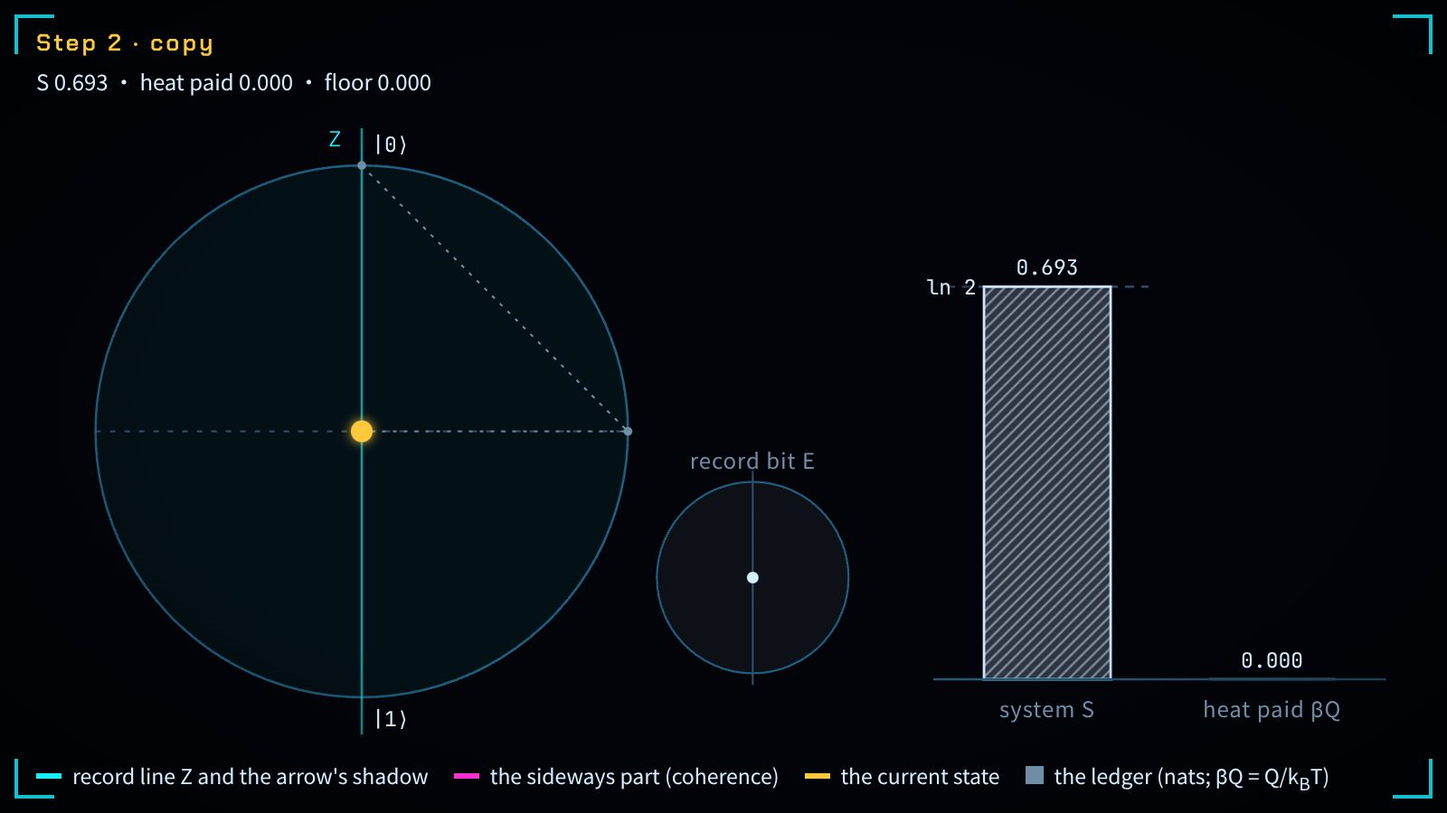
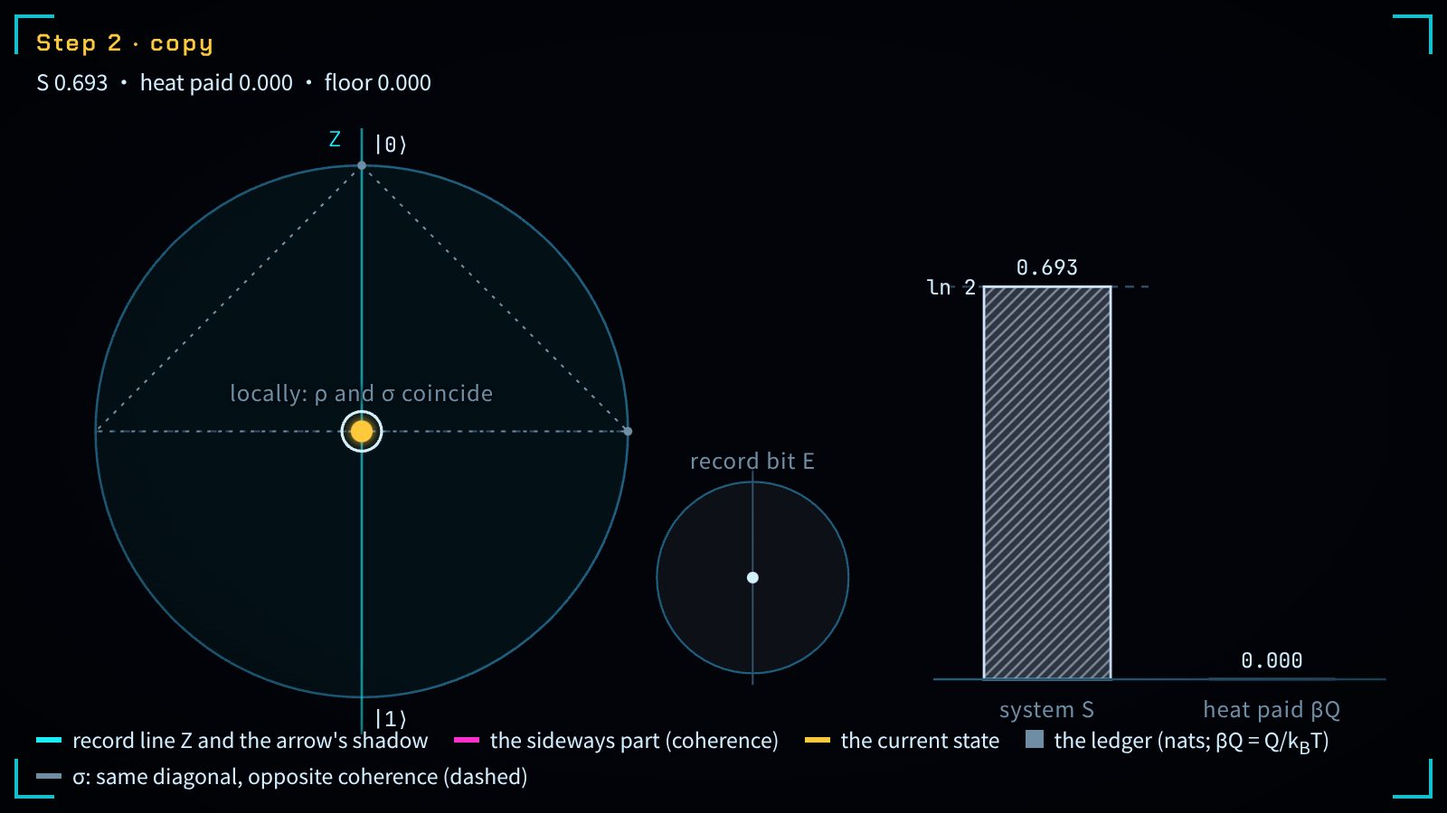
erasure-ledger: a two-state card for the data-processing inequality; the copy card carries the mirror state that coincides locally

Changed region(s): [[0.0312, 0.9022, 0.9062, 0.9644], [0.1562, 0.4667, 0.3438, 0.4978], [0.2188, 0.5289, 0.2812, 0.56]]

diff --git a/books/quantum-geometry/viz/erasure-ledger/main.js b/books/quantum-geometry/viz/erasure-ledger/main.js
@@ -70,13 +70,45 @@
   const blank = (J) => dist(J, kron(sysOf(J), BLANK)) < 1e-9;
   const gibbs = (p) => [[p, 0], [0, 1 - p]];
 
+  /* ---------- a second scene: two states sent through the same processes (data processing) ---------- */
+  /** D(ρ ‖ σ) for two qubits given by their Bloch arrows in the x–z plane; +∞ when ρ leaves the support of a pure σ. */
+  function dPair(r, s) {
+    const pureS = 1 - Math.hypot(s[0], s[1]) < 1e-12, same = Math.hypot(r[0] - s[0], r[1] - s[1]) < 1e-12;
+    if (pureS && !same) return Infinity;
+    return Math.max(0, relEnt(qubit(r[0], r[1]), qubit(s[0], s[1])));
+  }
+  const DPI = { lam: 0.5, ang: 0.7, ops: ['dep', 'rot', 'pinch', 'dep', 'dep'] };
+  const turnXZ = ([x, z], a) => [x * Math.cos(a) + z * Math.sin(a), -x * Math.sin(a) + z * Math.cos(a)];
+  function dpiStep([x, z], op) { return op === 'dep' ? [DPI.lam * x, DPI.lam * z] : op === 'rot' ? turnXZ([x, z], DPI.ang) : [0, z]; }
+  let dpiHist = [];
+  function dpiBuild() {
+    let r = [0, 1], sg = [1, 0];
+    dpiHist = [{ r, s: sg, D: dPair(r, sg), op: null }];
+    for (const op of DPI.ops) { r = dpiStep(r, op); sg = dpiStep(sg, op); dpiHist.push({ r, s: sg, D: dPair(r, sg), op }); }
+  }
+  dpiBuild();
+  function dpiAt(t) {
+    const n = DPI.ops.length, k = Math.max(0, Math.min(n, Math.floor(t + 1e-9))), f = k >= n ? 0 : Math.min(1, Math.max(0, t - k));
+    const a = dpiHist[k];
+    if (f < 1e-9) return { k, f: 0, r: a.r, s: a.s };
+    const b = dpiHist[k + 1], e = TRV.smooth(f);
+    const mid = (u, v) => (b.op === 'rot' ? turnXZ(u, DPI.ang * e) : [lerp(u[0], v[0], e), lerp(u[1], v[1], e)]);
+    return { k, f, r: mid(a.r, b.r), s: mid(a.s, b.s) };
+  }
+  const DPINAME = { dep: () => L(`去极化 λ = ${DPI.lam}`, `depolarize, λ = ${DPI.lam}`), rot: () => L(`绕 y 转 ${DPI.ang} 弧度`, `turn ${DPI.ang} rad about y`), pinch: () => L('Z 基捏合', 'pinch in Z') };
+  const fmtD = (d) => (d === Infinity ? '∞' : fix(d, 4));
+
   /* ---------- the ledger: a list of operations and the states after each ---------- */
-  const S = { alpha: 90 * DEG, p: 0.9, ops: [] };
+  const S = { alpha: 90 * DEG, p: 0.9, ops: [], mode: 'ledger' };
   let hist = [];
   const start = () => ({ J: kron(qubit(0, 1), BLANK), heat: 0, floor: 0, extra: 0, step: null, seg: { base: 0, kind: 'start', blocks: [] } });
   /** Fill in what every entry shows, each number from its own route. */
+  /** The mirror of the system: σ has the same diagonal and the opposite coherence (Z on the system). Z commutes with the
+      controlled-NOT, so mirroring every joint state of the ledger gives the ledger σ would have through the copy. */
+  const ZS = [[1, 0, 0, 0], [0, 1, 0, 0], [0, 0, -1, 0], [0, 0, 0, -1]];
   function describe(h) {
     const rs = sysOf(h.J), re = recOf(h.J);
+    h.Jm = conj(ZS, h.J); h.blochM = blochOf(sysOf(h.Jm));
     h.sys = rs; h.bloch = blochOf(rs); h.S = entropy(rs); h.Sglob = entropy(h.J); h.linked = !blank(h.J); h.rec = blochOf(re);
     return h;
   }
@@ -127,12 +159,13 @@
   function at(t) {
     const n = S.ops.length, k = Math.max(0, Math.min(n, Math.floor(t + 1e-9))), f = k >= n ? 0 : Math.min(1, Math.max(0, t - k));
     const a = hist[k];
-    if (f < 1e-9) return { k, f: 0, h: a, next: null, bloch: a.bloch, rec: a.rec, S: a.S, heat: a.heat, floor: a.floor, extra: a.extra };
+    if (f < 1e-9) return { k, f: 0, h: a, next: null, bloch: a.bloch, blochM: a.blochM, rec: a.rec, S: a.S, heat: a.heat, floor: a.floor, extra: a.extra };
     const b = hist[k + 1], e = TRV.smooth(f);
     let bloch;
     if (b.step.op === 'rot') { const c = Math.cos(b.step.alpha * e), s = Math.sin(b.step.alpha * e), [x, z] = a.bloch; bloch = [x * c + z * s, -x * s + z * c]; }
     else bloch = [lerp(a.bloch[0], b.bloch[0], e), lerp(a.bloch[1], b.bloch[1], e)];
-    return { k, f, h: a, next: b, bloch, rec: [lerp(a.rec[0], b.rec[0], e), lerp(a.rec[1], b.rec[1], e)],
+    const blochM = [-bloch[0], bloch[1]];
+    return { k, f, h: a, next: b, bloch, blochM, rec: [lerp(a.rec[0], b.rec[0], e), lerp(a.rec[1], b.rec[1], e)],
       S: lerp(a.S, b.S, e), heat: lerp(a.heat, b.heat, e), floor: lerp(a.floor, b.floor, e), extra: lerp(a.extra, b.extra, e), e };
   }
   const OPNAME = {
@@ -199,7 +232,58 @@
     sub.innerHTML = hudSubHtml(a, !(a.f > 0)); const other = sub.getBoundingClientRect().bottom - y0;
     sub.innerHTML = hudSubHtml(a, a.f > 0); return Math.max(other, sub.getBoundingClientRect().bottom - y0);
   }
+  function drawDpi() {
+    const st = stage, c = st.begin(), W = st.W, H = st.H, a = dpiAt(clock.t), labels = !TRV.thumbMode;
+    const cur = a.f > 0 ? a.k + 1 : a.k;
+    $('hudBig').textContent = cur ? L(`第 ${cur} 步 · ${DPINAME[DPI.ops[cur - 1]]()}`, `Step ${cur} · ${DPINAME[DPI.ops[cur - 1]]()}`) : L('起点 · ρ = |0⟩，σ = |+⟩', 'Start · ρ = |0⟩, σ = |+⟩');
+    const prev = a.k > 0 ? dpiHist[a.k - 1].D : null, here = dpiHist[a.k].D;
+    $('hudSub').textContent = a.f > 0 ? L(`D(ρ ‖ σ) 在这一步做完时重算`, 'D(ρ ‖ σ) is recomputed when this step is done')
+      : L(`D(ρ ‖ σ) = ${fmtD(here)}${prev == null ? '' : ` · 上一步 ${fmtD(prev)}`}`, `D(ρ ‖ σ) = ${fmtD(here)}${prev == null ? '' : ` · the step before ${fmtD(prev)}`}`);
+    const y0 = $('cv').getBoundingClientRect().top, hb = TRV.thumbMode ? 0 : $('hudSub').getBoundingClientRect().bottom - y0;
+    const Lo = layout(W, H, hb), { R, cx, cy } = Lo, X = (u) => cx + R * u, Y = (u) => cy - R * u;
+    c.fillStyle = TRV.alpha(P.cyan, 0.05); c.beginPath(); c.arc(cx, cy, R, 0, 2 * Math.PI); c.fill();
+    c.strokeStyle = P.lineHot; c.lineWidth = 1.3 * thick; c.stroke();
+    c.setLineDash([3, 5]); c.strokeStyle = P.faint; c.lineWidth = 1; c.beginPath(); c.moveTo(X(-1), cy); c.lineTo(X(1), cy); c.stroke(); c.setLineDash([]);
+    c.strokeStyle = P.cyan; c.globalAlpha = 0.6; c.lineWidth = 1.3 * thick; c.beginPath(); c.moveTo(cx, Y(1.14)); c.lineTo(cx, Y(-1.14)); c.stroke(); c.globalAlpha = 1;
+    // where both states have been
+    for (const key of ['r', 's']) {
+      c.setLineDash([2, 4]); c.strokeStyle = P.dim; c.lineWidth = 1 * thick; c.beginPath();
+      for (let i = 0; i <= a.k; i++) { const b = dpiHist[i][key]; if (i) c.lineTo(X(b[0]), Y(b[1])); else c.moveTo(X(b[0]), Y(b[1])); }
+      c.lineTo(X(a[key][0]), Y(a[key][1])); c.stroke(); c.setLineDash([]);
+      for (let i = 0; i <= a.k; i++) { const b = dpiHist[i][key]; c.fillStyle = P.dim; c.beginPath(); c.arc(X(b[0]), Y(b[1]), 2.4 * thick, 0, 2 * Math.PI); c.fill(); }
+    }
+    const [sx, sz] = a.s, [rx, rz] = a.r;
+    if (Math.hypot(sx, sz) > 2e-3) { c.save(); c.setLineDash([5 * thick, 4 * thick]); arrow(c, cx, cy, X(sx), Y(sz), P.ink, 2 * thick, 10 * thick); c.restore(); }
+    c.strokeStyle = P.ink; c.lineWidth = 1.8 * thick; c.beginPath(); c.arc(X(sx), Y(sz), 5.5 * thick, 0, 2 * Math.PI); c.stroke();
+    c.save(); c.shadowColor = P.amber; c.shadowBlur = 12;
+    if (Math.hypot(rx, rz) > 2e-3) arrow(c, cx, cy, X(rx), Y(rz), P.amber, 2.4 * thick, 12 * thick);
+    c.fillStyle = P.amber; c.beginPath(); c.arc(X(rx), Y(rz), 4.5 * thick, 0, 2 * Math.PI); c.fill(); c.restore();
+    if (labels) {
+      st.tag('k0', [cx + 16, Y(1.08)], '|0⟩', 'num', { screen: true });
+      st.tag('z', [cx - 14, Y(1.1)], 'Z', 'cy', { screen: true });
+      if (Math.hypot(rx, rz - 1) > 0.3) st.tag('rh', [X(rx) + 14, Y(rz) - 12], 'ρ', 'raw c-am', { screen: true });
+      st.tag('sg', [X(sx) + 14, Y(sz) + 14], 'σ', 'raw', { screen: true });
+    }
+    // the column of D after every step: none ever rises above the one before
+    const { yTop, yBot } = Lo.led, tall = H > W * 1.1, xa = tall ? 24 : Lo.env.cx - Lo.env.r, xb = W - Math.max(16, W * 0.04), n = DPI.ops.length;
+    const hi = 0.32, V = (d) => yBot - Math.min(d, hi * 1.08) / hi * (yBot - yTop - (tall ? 30 : 0)) * 0.86, slot = (xb - xa) / (n + 1), bw = Math.min(40, slot * 0.6);
+    c.strokeStyle = P.lineHot; c.lineWidth = 1.2; c.beginPath(); c.moveTo(xa, yBot); c.lineTo(xb, yBot); c.stroke();
+    for (let i = 0; i <= a.k; i++) {
+      const d = dpiHist[i].D, xm = xa + slot * (i + 0.5), top = V(d);
+      c.fillStyle = TRV.alpha(P.dim, i === a.k && a.f === 0 ? 0.5 : 0.28); c.fillRect(xm - bw / 2, top, bw, yBot - top);
+      c.strokeStyle = i === a.k && a.f === 0 ? P.amber : P.dim; c.lineWidth = (i === a.k && a.f === 0 ? 2 : 1.2) * thick; c.strokeRect(xm - bw / 2, top, bw, yBot - top);
+      if (d === Infinity) { c.fillStyle = P.dim; c.beginPath(); c.moveTo(xm - bw / 2, top); c.lineTo(xm, top - 12); c.lineTo(xm + bw / 2, top); c.fill(); }
+      if (labels) {
+        st.tag(`dv${i}`, [xm, top - (d === Infinity ? 24 : 11)], d === Infinity ? '∞' : fix(d, 3), 'num', { screen: true });
+        st.tag(`dn${i}`, [xm, yBot + 14], String(i), 'num', { screen: true });
+      }
+    }
+    if (labels) st.tag('dt', [(xa + xb) / 2, yTop - 6], L('每一步之后的 D(ρ ‖ σ)', 'D(ρ ‖ σ) after each step'), 'raw', { screen: true });
+    st.end();
+    return a;
+  }
   function drawStage() {
+    if (S.mode === 'dpi') { drawDpi(); return; }
     const st = stage, c = st.begin(), W = st.W, H = st.H, a = at(clock.t), Lo = layout(W, H, hud(a)), { R, cx, cy } = Lo;
     const X = (x) => cx + R * x, Y = (z) => cy - R * z, labels = !TRV.thumbMode;
     // the Bloch disc
@@ -228,6 +312,19 @@
       c.beginPath(); c.arc(X(x + wiped), cy, 4 * thick, 0, 2 * Math.PI); c.stroke(); c.restore();
     }
     if (Math.abs(z) > 2e-3) { c.save(); c.shadowColor = P.cyan; c.shadowBlur = 10; arrow(c, cx, cy, cx, Y(z), P.cyan, 5 * thick, 11 * thick); c.restore(); }
+    // the copy ledger carries a second state σ, the mirror of ρ: same diagonal, opposite coherence (grey, dashed)
+    if (S.ops.includes('copy')) {
+      const [mx, mz] = a.blochM;
+      c.setLineDash([2, 4]); c.strokeStyle = P.dim; c.lineWidth = 1 * thick; c.beginPath();
+      for (let i = 0; i <= a.k; i++) { const b = hist[i].blochM; if (i) c.lineTo(X(b[0]), Y(b[1])); else c.moveTo(X(b[0]), Y(b[1])); }
+      c.lineTo(X(mx), Y(mz)); c.stroke(); c.setLineDash([]);
+      if (Math.hypot(mx, mz) > 2e-3) { c.save(); c.setLineDash([5 * thick, 4 * thick]); arrow(c, cx, cy, X(mx), Y(mz), P.ink, 2 * thick, 10 * thick); c.restore(); }
+      c.strokeStyle = P.ink; c.lineWidth = 1.6 * thick; c.beginPath(); c.arc(X(mx), Y(mz), (Math.hypot(mx - x, mz - z) < 0.05 ? 11 : 5.5) * thick, 0, 2 * Math.PI); c.stroke();
+      if (labels) {
+        if (Math.hypot(mx - x, mz - z) > 0.12) st.tag('sg', [X(mx) - 14, Y(mz) - 14], 'σ', 'raw', { screen: true });
+        else if (a.f === 0) st.tag('same', [cx, cy - 22], L('局部：ρ 与 σ 重合', 'locally: ρ and σ coincide'), 'raw', { screen: true });
+      }
+    }
     c.save(); c.shadowColor = P.amber; c.shadowBlur = 12;
     if (Math.hypot(x, z) > 2e-3) arrow(c, cx, cy, X(x), Y(z), P.amber, 2.4 * thick, 12 * thick);
     c.fillStyle = P.amber; c.beginPath(); c.arc(X(x), Y(z), (Math.hypot(x, z) > 2e-3 ? 4.5 : 6) * thick, 0, 2 * Math.PI); c.fill(); c.restore();
@@ -235,6 +332,7 @@
       st.tag('k0', [cx + 16, Y(1.08)], '|0⟩', 'num', { screen: true });
       st.tag('k1', [cx + 16, Y(-1.08)], '|1⟩', 'num', { screen: true });
       st.tag('z', [cx - 14, Y(1.1)], 'Z', 'cy', { screen: true });
+      if (S.ops.includes('copy') && Math.hypot(x, z) > 0.12 && Math.hypot(x, z - 1) > 0.3) st.tag('rh', [X(x) + 14, Y(z) - 14], 'ρ', 'raw c-am', { screen: true });
       if (Math.abs(x) > 0.22) st.tag('xv', [X(x / 2), cy + 14], `${L('横', 'side')} ${fix(Math.abs(x), 2)}`, 'num c-mg', { screen: true });
       if (Math.abs(wiped) > 0.22) st.tag('xw', [X(x + wiped / 2), cy + 14], `${L('抹掉的横', 'wiped side')} ${fix(Math.abs(wiped), 2)}`, 'num c-mg', { screen: true });
     }
@@ -315,6 +413,14 @@
 
   /* ---------- strip: along the ledger ---------- */
   function drawPlot() {
+    if (S.mode === 'dpi') {
+      const g = kit.plot($('plot'), { x: [0, DPI.ops.length], y: [0, 0.32], pad: [34, 12, 8, 22] });
+      g.axes({ yTicks: [[0, '0'], [0.1, '0.1'], [0.2, '0.2'], [0.3, '0.3']], xTicks: DPI.ops.map((_, k) => [k + 1, String(k + 1)]).concat([[0, '0']]) });
+      g.line(dpiHist.map((h, k) => [k, Math.min(h.D, 0.32)]), P.dim, { width: 2 });
+      g.vline(clock.t, P.amber, { alpha: 0.8 });
+      $('plotMeta').textContent = `D ${fmtD(dpiHist[Math.min(DPI.ops.length, Math.floor(clock.t + 1e-9))].D)}`;
+      return;
+    }
     const n = S.ops.length, [lo, hi] = range(), g = kit.plot($('plot'), { x: [0, Math.max(1, n)], y: [lo, hi], pad: [34, 12, 8, 22] });
     const ticks = []; for (let k = 0; k <= Math.max(1, n); k++) ticks.push([k, String(k)]);
     g.axes({ yTicks: [[0, '0'], [LN2, 'ln 2']], xTicks: ticks });
@@ -331,6 +437,25 @@
 
   /* ---------- readouts ---------- */
   function drawText() {
+    if (S.mode === 'dpi') {
+      const a = dpiAt(clock.t), h = dpiHist[a.k];
+      $('roKey').textContent = `D(ρ ‖ σ) = ${fmtD(h.D)}`;
+      $('roKeySub').textContent = L('两个态经过同一个过程；每一步做完时由 2×2 矩阵的本征分解重算', 'two states through the same process; recomputed from the 2×2 eigendecompositions after every step');
+      $('roS').textContent = fix(entropy(qubit(h.r[0], h.r[1])), 3);
+      $('roX').textContent = fix(Math.abs(h.r[0]), 3);
+      $('roStep').textContent = a.k ? `${DPINAME[DPI.ops[a.k - 1]]()} · D ${fmtD(dpiHist[a.k - 1].D)} → ${fmtD(h.D)}` : '—';
+      $('roGlobal').textContent = '—';
+      $('roNote').textContent = L('转动：两个态一起刚性地转，D 不变。去极化：两个态沿半径一起缩向圆心，D 变小。捏合：两个态都落到青色的竖线上，D 变小。没有一步让 D 变大。', 'A turn: both states turn rigidly together and D stays. Depolarizing: both shrink together along their radii towards the centre and D falls. A pinch: both drop onto the cyan vertical line and D falls. No step makes D larger.');
+      $('pillS').querySelector('strong').textContent = fix(entropy(qubit(h.r[0], h.r[1])), 3);
+      $('pillQ').querySelector('strong').textContent = '0';
+      $('pillStep').querySelector('strong').textContent = String(a.f > 0 ? a.k + 1 : a.k);
+      $('rew').disabled = $('play').disabled = $('now').disabled = false;
+      document.querySelectorAll('#ops [data-op]').forEach((b) => { b.disabled = false; });
+      $('opNote').textContent = L('这一幕是两个态的比较；按任何一个操作就回到单个比特的账本。', 'This scene compares two states; pressing any operation goes back to the ledger of one bit.');
+      legend();
+      return;
+    }
+    legend();
     const a = at(clock.t), cur = a.f > 0 ? a.k + 1 : a.k, h = hist[cur], step = cur ? h.step : null;
     const ap = a.f > 0 ? '≈ ' : '';
     $('roKey').innerHTML = `${ap}${fix(a.heat, 3)} = ${fix(a.floor, 3)} + ${fix(a.extra, 3)}`;
@@ -386,16 +511,21 @@
       : L('从时间轴当前的位置往后记一步；时间轴在中途时，后面的步会被替换。', 'Each press writes one step after the rail\'s current position; with the rail part-way, the later steps are replaced.');
   }
 
+  const LEDGER_LEGEND = document.querySelector('#stage .hud-bl').innerHTML;
+  const DPI_LEGEND = [['am', '当前操作的态 ρ', 'the state ρ'], ['dm', '另一个态 σ（虚线）', 'the other state σ (dashed)'], ['cy', '捏合的记录线 Z', 'the record line Z of the pinch'], ['box dm', '每一步之后的 D(ρ ‖ σ)', 'D(ρ ‖ σ) after each step']]
+    .map(([cl, zh, en]) => `<span><i class="sw ${cl}"></i><span class="zh">${zh}</span><span class="en">${en}</span></span>`).join('');
+  const COPY_LEGEND = LEDGER_LEGEND + '<span><i class="sw dm"></i><span class="zh">σ：对角相同、相干相反（虚线）</span><span class="en">σ: same diagonal, opposite coherence (dashed)</span></span>';
+  function legend() { const el = document.querySelector('#stage .hud-bl'), want = S.mode === 'dpi' ? DPI_LEGEND : S.ops.includes('copy') ? COPY_LEGEND : LEDGER_LEGEND; if (el._h !== want) { el.innerHTML = want; el._h = want; } }
   const paint = kit.painter(() => { drawStage(); drawPlot(); drawText(); }, [$('stage'), $('plot')]);
 
   /* ---------- controls ---------- */
   const clock = kit.clock({
     range: $('now'), play: $('play'), label: $('tau'), speeds: $('speedChips'), max: 1, rate: 0.9, step: 1,
-    format: (t) => L(`第 ${t.toFixed(2)} 步 <small>/ 共 ${S.ops.length} 步</small>`, `step ${t.toFixed(2)} <small>/ ${S.ops.length} in all</small>`),
-    onChange: (t, c) => { if (!S.ops.length && t) c.set(0, true); paint(); }
+    format: (t) => { const n = S.mode === 'dpi' ? DPI.ops.length : S.ops.length; return L(`第 ${t.toFixed(2)} 步 <small>/ 共 ${n} 步</small>`, `step ${t.toFixed(2)} <small>/ ${n} in all</small>`); },
+    onChange: (t, c) => { if (S.mode !== 'dpi' && !S.ops.length && t) c.set(0, true); paint(); }
   });
   let stepping = null;
-  function restart() { if (stepping) { stepping.cancel(); stepping = null; } S.ops = []; rebuild(); clock.pause(); clock.setMax(1, true); clock.set(0); }
+  function restart() { if (stepping) { stepping.cancel(); stepping = null; } S.mode = 'ledger'; S.ops = []; rebuild(); clock.pause(); clock.setMax(1, true); clock.set(0); }
   /** Write one more step after the rail's current position and glide to it. */
   function addOp(op) {
     if (stepping) { const s = stepping; stepping = null; s.finish(); }
@@ -408,11 +538,11 @@
     const run = kit.tween(700, (e) => clock.set(k + e), () => { if (stepping === run) stepping = null; });
     stepping = run; stepping.finish = () => { run.cancel(); clock.set(k + 1); };
   }
-  $('ops').addEventListener('click', (ev) => { const b = ev.target.closest('[data-op]'); if (b && !b.disabled) { cards.mark(null); addOp(b.dataset.op); } });
+  $('ops').addEventListener('click', (ev) => { const b = ev.target.closest('[data-op]'); if (b && !b.disabled) { cards.mark(null); if (S.mode === 'dpi') restart(); addOp(b.dataset.op); } });
   $('restart').addEventListener('click', () => { cards.mark(null); restart(); });
   $('rew').addEventListener('click', () => { clock.pause(); clock.set(0); });
   /** A slider changes every turn (or every bath reset) in the ledger; the rail stays where it is. */
-  const retune = () => { const t = clock.t; rebuild(); clock.setMax(Math.max(1, S.ops.length), true); clock.set(Math.min(t, S.ops.length)); };
+  const retune = () => { if (S.mode === 'dpi') { restart(); return; } const t = clock.t; rebuild(); clock.setMax(Math.max(1, S.ops.length), true); clock.set(Math.min(t, S.ops.length)); };
   const fAlpha = kit.field($('alpha'), { fmt: (v) => `${Math.round(v)}°`, onInput: (v) => { cards.mark(null); S.alpha = v * DEG; retune(); } });
   const fPop = kit.field($('pop'), { fmt: (v) => fix(v, 3), onInput: (v) => { cards.mark(null); S.p = v; retune(); } });
 
@@ -422,14 +552,16 @@
     steps: { alpha: 50, p: 0.9, ops: ['rot', 'pinch', 'rot', 'pinch', 'rot', 'pinch'], still: 6 },
     cycle: { alpha: 90, p: 0.9, ops: ['rot', 'pinch', 'reset'], still: 3 },
     bath: { alpha: 90, p: 0.9, ops: ['rot', 'pinch', 'swap'], still: 3 },
-    copy: { alpha: 90, p: 0.9, ops: ['rot', 'copy', 'uncopy'], still: 2 }
+    copy: { alpha: 90, p: 0.9, ops: ['rot', 'copy', 'uncopy'], still: 2 },
+    dpi: { dpi: true, still: 5 }
   };
   const NOTES = {
     pinch: ['先转 90°：琥珀色的箭头从 |0⟩ 转到横躺，熵那一栏不动。再捏合：品红的横着的一份被抹掉，只剩一道虚线标出它原来的长度，箭头缩成圆心，熵那一栏升到 ln 2 的虚线，付给环境的热仍是 0。', 'Turn by 90° first: the amber arrow swings from |0⟩ to lying flat, and the entropy column does not move. Then pinch: the magenta sideways part is wiped out, leaving only a dashed outline of its old length, the arrow shrinks to the centre, the entropy column rises to the dashed ln 2 line, and the heat paid is still 0.'],
     steps: ['每步转 50°、再捏合，连做三步：箭头一级一级落到青色的线上、越来越短；熵那一栏一块一块叠起来，每一块标着这一步的 D，叠起来正好是总熵。', 'Turn by 50°, then pinch, three times over: the arrow drops step by step onto the cyan line and gets shorter; the entropy column stacks up block by block, each block marked with that step\'s D, and together they make the total.'],
     cycle: ['阶段 A：转 90° 再捏合，熵那一栏升到 ln 2，热为 0。阶段 B：理想复位把箭头拉回 |0⟩，熵那一栏回到 0，付给环境的热升到 ln 2，正好碰到下界的横线。', 'Stage A: turn by 90° and pinch; the entropy column rises to ln 2 and the heat is 0. Stage B: the ideal reset pulls the arrow back to |0⟩, the entropy column drops to 0, and the heat paid rises to ln 2, just touching the floor line.'],
     bath: ['同样先把箭头捏成圆心，再与一个 p = 0.9 的热浴比特交换：箭头只回到 0.8 高，熵减 0.368；热付了 0.879，比下界高出斜线的一截 0.511，那是右边小圆里热浴比特被推离平衡的 D。', 'The arrow is pinched to the centre as before, then swapped with a bath qubit at p = 0.9: it climbs back only to height 0.8, an entropy decrease of 0.368; the heat paid is 0.879, above the floor by the hatched piece of 0.511, the D by which the bath qubit in the small disc was pushed off equilibrium.'],
-    copy: ['转 90° 后拷贝进记录比特 E：系统这一侧的箭头缩成圆心，熵那一栏升到 ln 2（斜线：只是局部的熵），付给环境的热是 0。下一步撤回拷贝，箭头回到横躺，熵回到 0。', 'Turn by 90°, then copy into the record bit E: the system\'s arrow shrinks to the centre, the entropy column rises to ln 2 (hatched: only the local entropy), and the heat paid is 0. The next step undoes the copy: the arrow lies flat again and the entropy is back to 0.']
+    copy: ['转 90° 后拷贝进记录比特 E：系统这一侧的琥珀色箭头 ρ 缩成圆心，熵那一栏升到 ln 2（斜线：只是局部的熵），付给环境的热是 0。灰色虚线箭头 σ 与 ρ 对角相同、横着的一份相反，拷贝后也缩到圆心同一点：局部上两个态重合。下一步撤回拷贝，两支箭头各回各位，熵回到 0。', 'Turn by 90°, then copy into the record bit E: the system\'s amber arrow ρ shrinks to the centre, the entropy column rises to ln 2 (hatched: only the local entropy), and the heat paid is 0. The grey dashed arrow σ has the same diagonal as ρ and the opposite sideways part; after the copy it shrinks to the same point at the centre, so locally the two states coincide. The next step undoes the copy: each arrow goes back to where it was, and the entropy is back to 0.'],
+    dpi: ['两个态经过同一串过程：琥珀色的 ρ 从 |0⟩、灰色虚线的 σ 从 |+⟩ 出发，起初 D(ρ ‖ σ) = ∞。去极化 λ = 0.5：两个点沿半径一起缩向圆心，D 降到 0.275；绕 y 转 0.7 弧度：两个点一起刚性地转，D 不变；Z 基捏合：两个点都落到青色的竖线上，D 降到 0.258；再去极化两次，D 继续变小。右边每一步一根柱，没有一根比前一根高。', 'Two states through the same chain of processes: the amber ρ starts at |0⟩ and the grey dashed σ at |+⟩, and at first D(ρ ‖ σ) = ∞. Depolarize with λ = 0.5: the two points shrink together along their radii towards the centre and D drops to 0.275; turn 0.7 rad about y: the two points turn rigidly together and D stays; pinch in Z: both drop onto the cyan vertical line and D drops to 0.258; depolarize twice more and D keeps falling. On the right one bar per step, none taller than the one before.']
   };
   let booting = true, moving = null;
   function applyPreset(id) {
@@ -438,6 +570,13 @@
     if (stepping) { stepping.cancel(); stepping = null; }
     const land = () => {
       moving = null;
+      if (p.dpi) {
+        if (stepping) { stepping.cancel(); stepping = null; }
+        S.mode = 'dpi'; S.ops = []; rebuild(); clock.pause(); clock.setMax(DPI.ops.length, true); clock.set(0);
+        if (TRV.still || (booting && !TRV.embed)) clock.set(p.still); else if (booting) kit.autoplay(clock, $('stage')); else clock.play();
+        return;
+      }
+      S.mode = 'ledger';
       S.alpha = p.alpha * DEG; S.p = p.p; fAlpha.set(p.alpha); fPop.set(p.p);
       S.ops = p.ops.slice(); rebuild(); clock.pause(); clock.setMax(S.ops.length, true); clock.set(0);
       if (TRV.still || (booting && !TRV.embed)) clock.set(p.still); else if (booting) kit.autoplay(clock, $('stage')); else clock.play();
@@ -454,13 +593,15 @@
   TRV.startGlitch(document.querySelector('.brand'));
 
   /* ---------- probe, cover, start ---------- */
-  const pub = (h) => ({ bloch: h.bloch.slice(), rec: h.rec.slice(), S: h.S, Sglob: h.Sglob, linked: h.linked, heat: h.heat, floor: h.floor, extra: h.extra,
+  const pub = (h) => ({ bloch: h.bloch.slice(), blochM: h.blochM.slice(), rec: h.rec.slice(), S: h.S, Sglob: h.Sglob, linked: h.linked, heat: h.heat, floor: h.floor, extra: h.extra,
     J: h.J.map((r) => r.slice()), step: h.step ? Object.assign({}, h.step) : null, seg: { base: h.seg.base, kind: h.seg.kind, blocks: h.seg.blocks.slice() } });
   window.ERASE_DEBUG = {
     get state() {
       const a = at(clock.t);
-      return { preset: cards.current, t: clock.t, n: S.ops.length, playing: clock.playing, alpha: S.alpha, p: S.p, ops: S.ops.slice(),
-        hist: hist.map(pub), now: { bloch: a.bloch.slice(), S: a.S, heat: a.heat, floor: a.floor, extra: a.extra } };
+      const da = dpiAt(clock.t);
+      return { mode: S.mode, dpi: { lam: DPI.lam, ang: DPI.ang, ops: DPI.ops.slice(), hist: dpiHist.map((h) => ({ r: h.r.slice(), s: h.s.slice(), D: h.D, op: h.op })), now: { k: da.k, f: da.f, r: da.r.slice(), s: da.s.slice() } },
+        preset: cards.current, t: clock.t, n: S.ops.length, playing: clock.playing, alpha: S.alpha, p: S.p, ops: S.ops.slice(),
+        hist: hist.map(pub), now: { bloch: a.bloch.slice(), blochM: a.blochM.slice(), S: a.S, heat: a.heat, floor: a.floor, extra: a.extra } };
     },
     seek: (t) => { clock.pause(); clock.set(t); }
   };

diff --git a/books/quantum-geometry/viz/erasure-ledger/index.html b/books/quantum-geometry/viz/erasure-ledger/index.html
@@ -42,6 +42,7 @@
         <button class="preset" data-preset="cycle" aria-pressed="false"><span class="code">A · B</span><span class="cn zh">两阶段：熵记进系统，再付成热</span><span class="cn en">Two stages: entropy in, then heat out</span></button>
         <button class="preset" data-preset="bath" aria-pressed="false"><span class="code">ONE-QUBIT BATH</span><span class="cn zh">一个热浴比特：多付的就是 D</span><span class="cn en">One reservoir qubit: the extra is D</span></button>
         <button class="preset" data-preset="copy" aria-pressed="false"><span class="code">COPY · UNDO</span><span class="cn zh">拷贝：局部的熵涨了，热一分没付，还能撤回</span><span class="cn en">Copy: local entropy up, no heat, and it can be undone</span></button>
+        <button class="preset" data-preset="dpi" aria-pressed="false"><span class="code">TWO STATES</span><span class="cn zh">两个态经过同一个过程：只会被挤近</span><span class="cn en">Two states through one process: only ever pushed closer</span></button>
       </div>
       <p class="note" id="presetNote"></p>
     </section>
@@ -120,6 +121,8 @@
       <h2><span class="zh">依据</span><span class="en">Evidence</span><span class="aside">trureturing</span></h2>
       <div class="lean"><span class="ok">LEAN ✓</span><span><span class="zh">Z 基里对角的态，在与之无偏的 X 基下捏合，直达 ½I，且相对熵 = 熵增 = ln d − S(ρ)。本页“先转 90°、再捏合”就是把这次 X 基捏合转到 Z 基来看：|0⟩ 的熵从 0 升到 ln 2。已冻结：</span><span class="en">A state diagonal in Z, pinched in the unbiased basis X, goes straight to ½I, and relative entropy = entropy rise = ln d − S(ρ). “Turn by 90°, then pinch” on this page is that X pinch seen from the Z basis: the entropy of |0⟩ goes from 0 to ln 2. Frozen: </span><a class="leanref" data-lean-gid="D5/S3/Quantum/Divergence/DualAccountFull.dual_account_full" href="#" target="_blank" rel="noopener"><code>dual_account_full</code></a></span></div>
       <div class="lean"><span class="ok">LEAN ✓</span><span><span class="zh">受控拷贝是幺正的，用它的伴随可以把联合态精确撤回；拷贝之后，对角元相同的两个态在系统这一侧留下的约化态完全相同。已冻结：</span><span class="en">The controlled copy is unitary and its adjoint takes the joint state exactly back; after the copy, two states with the same diagonal leave the same reduced state on the system's side. Frozen: </span><a class="leanref" data-lean-gid="D5/S3/Quantum/Decoherence/CanonicalRecordAccessRecovery.reduced_irreversibility_is_canonical_record_access_defect" href="#" target="_blank" rel="noopener"><code>reduced_irreversibility_is_canonical_record_access_defect</code></a></span></div>
+      <div class="lean"><span class="ok">LEAN ✓</span><span><span class="zh">数据处理不等式：对任意有限维量子信道 Φ（完全正、保迹）与任意两个密度态，D(Φρ ‖ Φσ) ≤ D(ρ ‖ σ)（带支撑约定，可取 +∞）。“两个态”一幕里去极化、转动、捏合都是信道，每一根柱都不高于前一根。已冻结：</span><span class="en">The data-processing inequality: for every finite-dimensional quantum channel Φ (completely positive, trace-preserving) and any two density states, D(Φρ ‖ Φσ) ≤ D(ρ ‖ σ) (with the support convention, possibly +∞). In the “two states” scene depolarizing, turning and pinching are all channels, and no bar is taller than the one before. Frozen: </span><a class="leanref" data-lean-gid="D5/S3/Quantum/Divergence/CanonicalChannelDPI.extended_quantum_relative_entropy_channel_dpi" href="#" target="_blank" rel="noopener"><code>extended_quantum_relative_entropy_channel_dpi</code></a></span></div>
+      <div class="lean num"><span class="ok">NUM</span><span><span class="zh">“两个态”一幕：每一步做完时的 D(ρ ‖ σ) 由 2×2 矩阵的本征分解算出；纯态 σ 而 ρ ≠ σ 时记作 +∞。转动前后 D 相等、反复去极化 D 一步也不回升，是第八章由定理手工推出的两条推论，本页只核对这几个数。</span><span class="en">The “two states” scene: D(ρ ‖ σ) after every step is computed from 2×2 eigendecompositions, and written +∞ when σ is pure and ρ ≠ σ. That a turn leaves D unchanged and that repeated depolarizing never lets D rise are the two corollaries chapter 8 derives by hand from the theorem; this page only checks these numbers.</span></span></div>
       <div class="lean argued"><span class="ok">ARGUED</span><span><span class="zh">兰道尔原理（1961）与 Reeb–Wolf 有限热浴恒等式（2014）：把熵从系统里擦掉，至少要向温度 T 的热浴付出 k<sub>B</sub>T 乘以熵减的热。文献结果，未在本书形式化。</span><span class="en">Landauer's principle (1961) and the Reeb–Wolf finite-bath identity (2014): wiping entropy out of the system costs at least k<sub>B</sub>T times the entropy removed, paid as heat to a bath at temperature T. Literature result, not formalized in this book.</span></span></div>
       <div class="lean model"><span class="ok">MODEL</span><span><span class="zh">“理想复位”把账记成 I = D = 0，即兰道尔界取等：这是很大的热浴与无限缓慢过程的理想极限，本页不构造它。“热浴比特复位”是第八章的单比特交换模型，各项都实算。</span><span class="en">“Ideal reset” books I = D = 0, the Landauer bound with equality: the ideal limit of a very large bath and an infinitely slow process, which the page does not construct. “Reset with a bath qubit” is Chapter 8's one-qubit swap model, with every term computed.</span></span></div>
       <div class="lean num"><span class="ok">NUM</span><span><span class="zh">每一步做完时（时间轴的整数位置）的熵、相对熵、互信息与热都由 2×2、4×4 密度矩阵按双精度算出；两步之间，箭头与两栏的数各自在两端之间插值，只是示意动画，不是为中间那个态重新算的熵。数值演示，不是证明。</span><span class="en">At the end of every step (whole positions on the rail) the entropies, relative entropies, mutual information and heat are computed from 2×2 and 4×4 density matrices in double precision; between steps the arrow and both columns are each interpolated between the two ends, an illustrative animation, not an entropy recomputed for the state in between. An illustration, not a proof.</span></span></div>
@@ -156,6 +159,7 @@
         <li><b>复位要付热（阶段 B，文献结果）。</b>把系统擦回 |0⟩ 时，系统的熵减 −ΔS 是兰道尔下界：付给热浴的热 βQ 至少这么多。本书形式化的只是实数层面的账目：若热浴平衡 βQ = ΔS<sub>res</sub> + D 与幺正平衡 I = ΔS<sub>sys</sub> + ΔS<sub>res</sub> 成立，则 βQ = −ΔS<sub>sys</sub> + I + D（<a class="leanref" data-lean-gid="D5/S3/DivergenceSupport/LandauerIdentity.landauer_identity_from_balances" href="#" target="_blank" rel="noopener"><code>landauer_identity_from_balances</code></a>，LEAN ✓），且取等当且仅当 I = D = 0（<a class="leanref" data-lean-gid="D5/S3/DivergenceSupport/LandauerSaturation.landauer_saturation_iff" href="#" target="_blank" rel="noopener"><code>landauer_saturation_iff</code></a>、<a class="leanref" data-lean-gid="D5/S3/DivergenceSupport/LandauerSaturation.landauer_strict_iff" href="#" target="_blank" rel="noopener"><code>landauer_strict_iff</code></a>，LEAN ✓）。两条平衡式与 I、D 的非负性是文献结果（兰道尔 1961，Reeb–Wolf 2014），未在本书形式化。“理想复位”把 I = D = 0 当作理想极限记账（MODEL）。</li>
         <li><b>一个热浴比特。</b>“热浴比特复位”是第八章例题的模型：热浴是吉布斯态 diag(p, 1 − p)，βE = ln(p/(1 − p))，联合幺正是交换门。页面实算系统与热浴的熵变、末态互信息 I（由 4×4 联合态求得，等于 0）、热浴的相对熵 D(ρ<sub>B</sub>′ ‖ ρ<sub>B</sub>) 与热 βQ = βE·(末态激发布居 − (1 − p))，并核对两条平衡式。从 ½I 出发（卡 ONE-QUBIT BATH）、p = 0.9 时三项依次约为 0.368、0.511、0.879，与第八章的数值表一致。从别的态出发，符号可以反过来：直接从 |0⟩ 交换时，系统的熵反而增加 0.325，βQ = −0.220（热从热浴流进系统），仍比下界 −0.325 多出 D = 0.105。</li>
         <li><b>拷贝可以撤回。</b>“拷贝”是受控非门把计算基的记录写进空白的记录比特 E：系统这一侧的约化态只剩对角线（与捏合后相同），局部的熵不减：拷贝前带横着的一份时涨，拷贝前已是对角态时不变；整体（系统 + 记录）的熵与拷贝前相同（受控非门是幺正的）：从纯态出发时整体仍是纯态、熵为 0，从 ½I 出发时仍是 ln 2；热为零。紧接着拷贝的“撤回拷贝”再作用一次受控非门（它就是自己的伴随），联合态精确回到拷贝之前；拷贝之后若又转动过系统，再作用一次受控非门一般不能让记录比特回到空白。受控拷贝的幺正性、可撤回性与约化态重合是 <a class="leanref" data-lean-gid="D5/S3/Quantum/Decoherence/CanonicalRecordAccessRecovery.reduced_irreversibility_is_canonical_record_access_defect" href="#" target="_blank" rel="noopener"><code>reduced_irreversibility_is_canonical_record_access_defect</code></a>（LEAN ✓）。系统与记录还连着时，两种复位都不可用：本页不为关联的系统记复位的账。</li>
+        <li><b>两个态只会被挤近。</b>“两个态”一幕把 ρ = |0⟩ 与 σ = |+⟩ 送进同一串过程：去极化（λ = 0.5）把两个点沿半径一起缩向圆心，绕 y 转 0.7 弧度把它们一起刚性地转，Z 基捏合把它们都落到竖线上。每一步做完都重算 D(ρ ‖ σ)：∞、0.275、0.275、0.258，再去极化两次继续变小。数据处理不等式（Lean 已验证）说任何信道都不会让它变大；转动不改变它、反复作用不让它回升是第八章的手工推论。</li>
       </ol>
       <p class="lede refs">书中：<a href="../../zh/ch08-erasure-and-time-arrows.html#sec-unitary-reversibility-vs-erasure" target="_top">第八章 §8.1</a> · <a href="../../zh/ch08-erasure-and-time-arrows.html#sec-landauer-principle-geometry" target="_top">§8.2 两阶段图景</a> · <a href="../../zh/ch08-erasure-and-time-arrows.html#ex-one-qubit-reservoir-swap-erasure" target="_top">一个热浴量子比特的擦除</a> · <a href="../../zh/ch08-erasure-and-time-arrows.html#sec-observer-memory-time-arrow" target="_top">§8.3 观察者记忆</a></p>
     </div>
@@ -167,6 +171,7 @@
         <li><b>Resetting pays heat (stage B, a literature result).</b> When the system is wiped back to |0⟩, its entropy decrease −ΔS is the Landauer floor: the heat βQ paid to the bath is at least that much. What this book formalizes is the bookkeeping in real numbers: if the reservoir balance βQ = ΔS<sub>res</sub> + D and the unitary balance I = ΔS<sub>sys</sub> + ΔS<sub>res</sub> hold, then βQ = −ΔS<sub>sys</sub> + I + D (<a class="leanref" data-lean-gid="D5/S3/DivergenceSupport/LandauerIdentity.landauer_identity_from_balances" href="#" target="_blank" rel="noopener"><code>landauer_identity_from_balances</code></a>, LEAN ✓), with equality exactly when I = D = 0 (<a class="leanref" data-lean-gid="D5/S3/DivergenceSupport/LandauerSaturation.landauer_saturation_iff" href="#" target="_blank" rel="noopener"><code>landauer_saturation_iff</code></a>, <a class="leanref" data-lean-gid="D5/S3/DivergenceSupport/LandauerSaturation.landauer_strict_iff" href="#" target="_blank" rel="noopener"><code>landauer_strict_iff</code></a>, LEAN ✓). The two balances and the non-negativity of I and D are literature results (Landauer 1961, Reeb–Wolf 2014), not formalized in this book. “Ideal reset” books I = D = 0 as the ideal limit (MODEL).</li>
         <li><b>One bath qubit.</b> “Reset with a bath qubit” is the model of Chapter 8's example: the bath is the Gibbs state diag(p, 1 − p) with βE = ln(p/(1 − p)), and the joint unitary is the swap. The page computes the entropy changes of system and bath, the final mutual information I (from the 4×4 joint state; it is 0), the bath's relative entropy D(ρ<sub>B</sub>′ ‖ ρ<sub>B</sub>) and the heat βQ = βE·(final excited population − (1 − p)), and checks both balances. Starting from ½I (the card ONE-QUBIT BATH) at p = 0.9 the three terms come to about 0.368, 0.511 and 0.879, as in Chapter 8's table. From other states the signs can turn round: swapping straight from |0⟩, the system's entropy rises by 0.325 and βQ = −0.220 (heat flows from the bath into the system), still above the floor −0.325 by D = 0.105.</li>
         <li><b>A copy can be undone.</b> “Copy” is a controlled-NOT that writes the computational-basis record into a blank record bit E: on the system's side only the diagonal is left (the same as after a pinch), and the local entropy does not fall: it rises when there was a sideways part before the copy and stays put when the state was already diagonal; the entropy of the whole (system + record) is what it was before the copy (the controlled-NOT is unitary): still pure, with entropy 0, from a pure state, and still ln 2 from ½I; no heat is paid. “Undo copy” right after the copy applies the controlled-NOT once more (it is its own adjoint) and the joint state is exactly what it was before the copy; if the system was turned after the copy, a second controlled-NOT in general does not leave the record bit blank. That the controlled copy is unitary, can be undone, and leaves coinciding reduced states is <a class="leanref" data-lean-gid="D5/S3/Quantum/Decoherence/CanonicalRecordAccessRecovery.reduced_irreversibility_is_canonical_record_access_defect" href="#" target="_blank" rel="noopener"><code>reduced_irreversibility_is_canonical_record_access_defect</code></a> (LEAN ✓). While system and record are still linked, neither reset is offered: the page keeps no reset ledger for a correlated system.</li>
+        <li><b>Two states are only ever pushed closer.</b> The “two states” scene sends ρ = |0⟩ and σ = |+⟩ through one chain of processes: depolarizing (λ = 0.5) shrinks both points together along their radii towards the centre, a turn of 0.7 rad about y turns them rigidly together, and a pinch in Z drops both onto the vertical line. D(ρ ‖ σ) is recomputed after every step: ∞, 0.275, 0.275, 0.258, and smaller still after two more depolarizations. The data-processing inequality (kernel-verified in Lean) says no channel makes it larger; that a turn leaves it unchanged and repeated use never lets it rise are chapter 8's hand-derived corollaries.</li>
       </ol>
       <p class="lede refs">In the book: <a href="../../en/ch08-erasure-and-time-arrows.html#sec-unitary-reversibility-vs-erasure" target="_top">Chapter 8 §8.1</a> · <a href="../../en/ch08-erasure-and-time-arrows.html#sec-landauer-principle-geometry" target="_top">§8.2 the two-stage picture</a> · <a href="../../en/ch08-erasure-and-time-arrows.html#ex-one-qubit-reservoir-swap-erasure" target="_top">erasing with one reservoir qubit</a> · <a href="../../en/ch08-erasure-and-time-arrows.html#sec-observer-memory-time-arrow" target="_top">§8.3 observer memory</a></p>
     </div>
